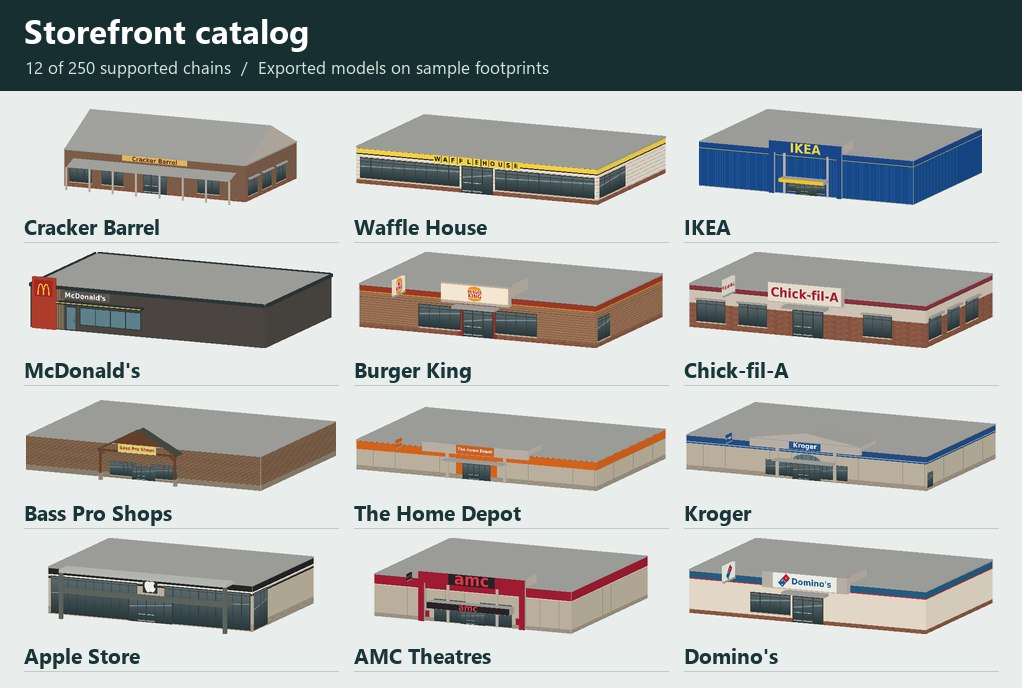
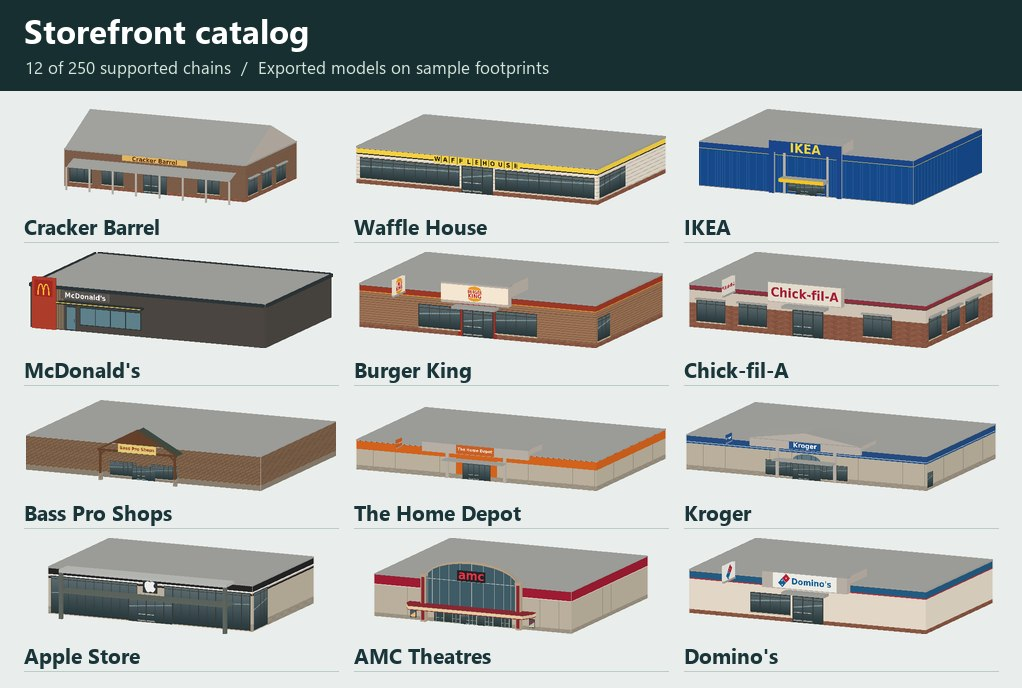
Give wide standalone AMC theaters an arched multiplex lobby

Changed region(s): [[0.3943, 0.7936, 0.546, 0.9157]]

diff --git a/tools/storefronts/entrance_designs.py b/tools/storefronts/entrance_designs.py
@@ -54,6 +54,7 @@ DESIGNS = {
     "Advance Auto Parts": Entrance("step", "#a62e2d", "#e7bb40", 16),
     "O'Reilly Auto Parts": Entrance("step", "#276442", "#dfd9bd", 18),
     "Harbor Freight Tools": Entrance("step", "#9e302c", "#494744", 21),
+    "AMC Theatres": Entrance("cinema_lobby", "#bda78c", "#932a36", 32),
     "Apple Store": Entrance("glass", "#bdbfbb", "#626962", 23),
     "Crate & Barrel": Entrance("glass", "#ddd8cb", "#494a46", 20),
     "Lululemon": Entrance("glass", "#bdb6a9", "#52504a", 17),
@@ -70,6 +71,8 @@ def fitted_span(name, wall_width, entrance, doors):
         if other != entrance:
             clear = min(clear, abs(other - entrance) / 2)
     span = min(profile.span, 1.86 * clear)
+    if profile.form == "cinema_lobby":
+        return span if span >= 16 and len(set(doors)) == 1 else 0.
     return span if span >= min(6., profile.span*.66) else 0.
 
 
@@ -181,6 +184,48 @@ def draw(profile, span, height, vertex, mesh, texture, sign, symbol_only=False):
         sign_depth=reach+.08
         box(-sign_width*.53,sign_width*.53,reach-.20,reach+.04,
             sign_z-sign_h*.55,sign_z+sign_h*.55,field)
+    elif form == "cinema_lobby":
+        # A high arched clerestory breaks up the flat roofline of the auditorium block.
+        spring = max(5.7, height + .35)
+        radius = half * .72
+        rise = min(4.2, span * .14)
+        points = [(radius*cos(a), spring+rise*sin(a)) for a in np.linspace(pi, 0, 13)]
+        prism([(-radius, 3.3), (radius, 3.3), *reversed(points)], .04, .68, "#41606b")
+        for (x,z),(u,v) in zip(points, points[1:]):
+            prism([(x,z),(u,v),(u,v+.40),(x,z+.40)], .03, .92, field)
+            if abs(x) < radius-.01:
+                box(x-.055,x+.055,.68,.75,3.4,z,"#b3b6ad")
+        box(-radius,radius,.68,.76,spring-.14,spring,"#b3b6ad")
+        for side in (-1,1):
+            x = side * (radius + .53)
+            box(x-.62,x+.62,.05,1.45,0,spring+.55,field)
+            box(x-.37,x+.37,1.45,1.53,.45,spring+.24,trim)
+            box(x-.79,x+.79,.04,1.62,spring+.45,spring+.77,field)
+        # Chamfered corners make the marquee visible on an oblique approach.
+        reach = min(4.5, span*.16)
+        outline = [(-half,.06),(half,.06),(half,reach*.42),
+                   (half-1.5,reach),(-half+1.5,reach),(-half,reach*.42)]
+        for low,high,color in ((3.25,3.41,trim),(3.41,4.13,"#ead8aa"),(4.13,4.34,trim)):
+            surface([(x,y,high) for x,y in outline],color)
+            surface([(x,y,low) for x,y in reversed(outline)],color)
+            for (x,y),(u,v) in zip(outline,outline[1:]+outline[:1]):
+                surface([(x,y,low),(u,v,low),(u,v,high),(x,y,high)],color)
+        # Repeated pairs of glazed lobby doors sit under the marquee.
+        for x in np.linspace(-radius*.72,radius*.72,5):
+            box(x-1.05,x+1.05,.03,.18,.06,2.78,"#c3b9a5")
+            for dx in (-.49,.49):
+                box(x+dx-.43,x+dx+.43,.18,.20,.17,2.65,"#354b50")
+                box(x+dx-.40,x+dx+.40,.20,.22,1.03,1.11,"#c3b9a5")
+        # Abstract poster art gives the entrance cases a readable silhouette at road distance.
+        for side,sky,land in ((-1,"#406378","#efbd70"),(1,"#734052","#c1c5ab")):
+            x = side * (half-.95)
+            box(x-.73,x+.73,.03,.20,.57,2.65,"#352e32")
+            surface([(x-.62,.21,.71),(x+.62,.21,.71),(x+.62,.21,2.51),(x-.62,.21,2.51)],sky)
+            surface([(x-.62,.22,.71),(x+.62,.22,.71),(x+.62,.22,1.95),(x-.62,.22,1.12)],land)
+            box(x-.41,x+.41,.22,.23,.84,.92,"#eee2cb")
+        sign_h = min(2.55, span*.095)
+        sign_width = sign_h*2.8
+        sign_z,sign_depth = spring+rise*.30,.97
     elif form == "streamline":
         # Stepped horizontal fins with clipped ends frame the diner entrance.
         for i in range(3):

diff --git a/tools/storefronts/whole_store.py b/tools/storefronts/whole_store.py
@@ -136,6 +136,7 @@ DESIGN_GLAZING = {
     "porch": (4.4, .70, 2.75, 2.), "outfitter": (6.8, .75, 3.8, 0),
     "market": (9., .32, 4.2, 3.2), "wing": (4.2, .65, 2.75, 3.),
     "streamline": (7.2, .55, 2.8, 4.5), "step": (5., .70, 3.1, 0),
+    "cinema_lobby": PUBLIC_GLAZING["cinema"],
     "glass": (12., .12, 4.9, 5.),
 }
 CAFE_GLAZING.update({name: DESIGN_GLAZING[design.form] for name, design in entrance_designs.DESIGNS.items()})
@@ -987,7 +988,7 @@ def build(
                 inner, outer = base + .12 * normals[i], base + (reach + .12) * normals[i]
                 a, b = (inner, outer) if side == -1 else (outer, inner)
                 mesh([(*a,bottom), (*b,bottom), (*b,top), (*a,bottom), (*b,top), (*a,top)], art, uv)
-        if i == front and family == "cinema":
+        if i == front and family == "cinema" and not fitted:
             # A projecting marquee and display cases distinguish the lobby from auditorium walls.
             span = min(width * .78, 21.)
             left = (width - span) / 2

diff --git a/tools/storefronts/test_wall_observations.py b/tools/storefronts/test_wall_observations.py
@@ -198,6 +198,9 @@ def test_fitted_entrances_and_shared_wall_exports():
             assert fit(name, 40, 1, [1]) == 0
             assert fit(name, 40, 20, [20, 21]) == 0
             assert fit(name, 40, 10, [10, 20]) <= 10
+            if design.form == "cinema_lobby":
+                assert fit(name, 15, 7.5, [7.5]) == 0
+                assert fit(name, 60, 18, [18, 42]) == 0
             # Shared hosts must retain their roof and mass even for a flagship brand.
             with patch.object(entrance_designs, "draw", side_effect=AssertionError(name)):
                 entry = export_store(Path("tenant.osm"), (name, "tenant", wall, None, [], None), {}, cache)

diff --git a/server/threedmr.py b/server/threedmr.py
@@ -55,7 +55,7 @@ import staging
 
 log = logging.getLogger("earthd.threedmr")
 
-STOREFRONT_VERSION = 14  # Shared by generated model filenames and tile revisit keys.
+STOREFRONT_VERSION = 15  # Shared by generated model filenames and tile revisit keys.
 TAG_KEY = "3dmr"
 API_URL = "https://3dmr.eu/api/model/{}"
 SEARCH_URL = "https://3dmr.eu/api/search/{lat:.6f}/{lon:.6f}/{range_m}"

diff --git a/tools/storefronts/README.md b/tools/storefronts/README.md
@@ -20,9 +20,9 @@ shared storefront panel. Standalone Cracker Barrel stores have a timber porch an
 four-sided footprints also support a pitched roof. Waffle House uses a low glazed diner, and
 IKEA uses a tall blue warehouse with a yellow canopy. Bass Pro Shops can use a projecting lodge
 entrance with a timber truss and stone bases when one customer entrance has enough wall on each side.
-An additional 41 brands use 11 reusable entrance designs in `entrance_designs.py`, including
+An additional 42 brands use 12 reusable entrance designs in `entrance_designs.py`, including
 striped gables, low hipped roofs, castle towers, three-arch arcades, porches, outfitter gables,
-market halls, coffee canopies, diner fins, stepped signs and glazed showrooms. Each entrance
+market halls, coffee canopies, diner fins, stepped signs, glazed showrooms and an arched cinema lobby. A standalone AMC with at least 16 m of clear entrance frontage can get a tall glass arch, paired doors and a deep marquee. Each entrance
 fits between its neighbouring doors and wall ends. A narrow entrance or a shared service wall
 uses the existing building design. The catalog represents typical formats, including some
 classic restaurant designs. Map records rarely identify the renovation era of an individual branch.

diff --git a/tools/storefronts/catalog/README.md b/tools/storefronts/catalog/README.md
@@ -4,6 +4,8 @@ All 250 supported chains, rendered from generated GLBs on sample footprints. Eac
 
 ![Twelve storefront examples](overview.jpg)
 
+[Standalone AMC cinema before and after, from driver height](amc-comparison.jpg).
+
 | Entries | Catalog sheet |
 | --- | --- |
 | 1-25 | [99 Ranch Market through Bass Pro Shops](catalog-01.jpg) |
